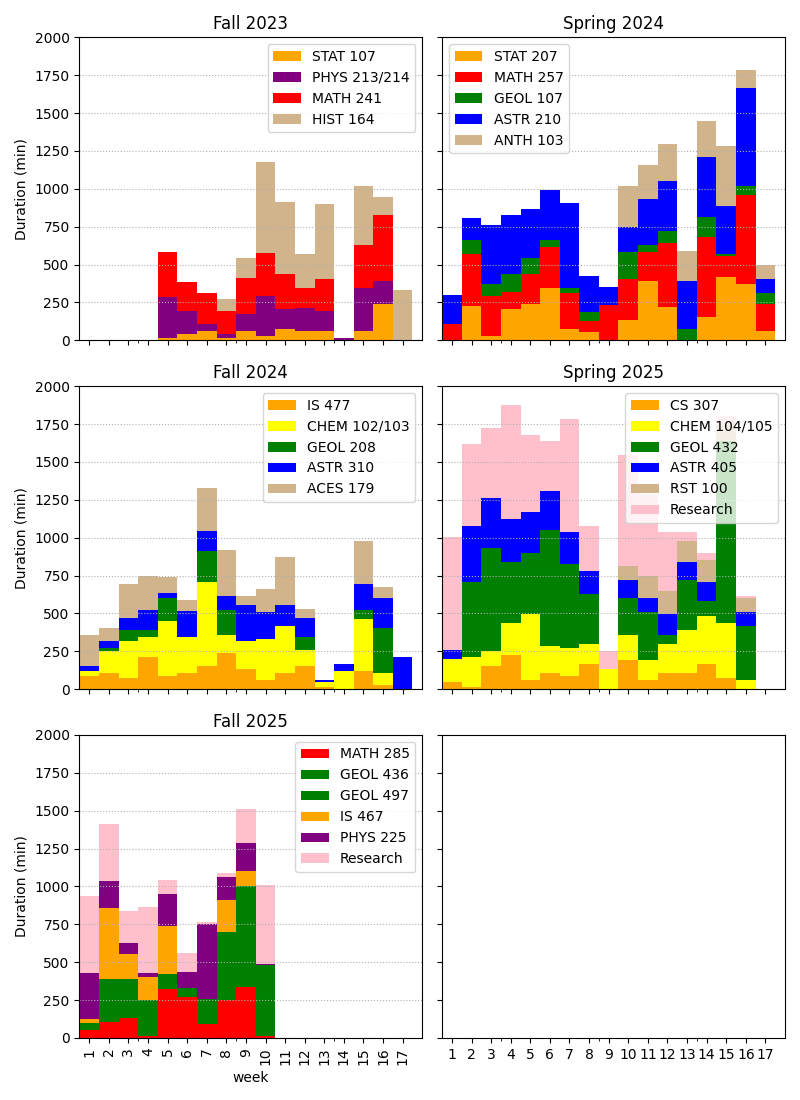
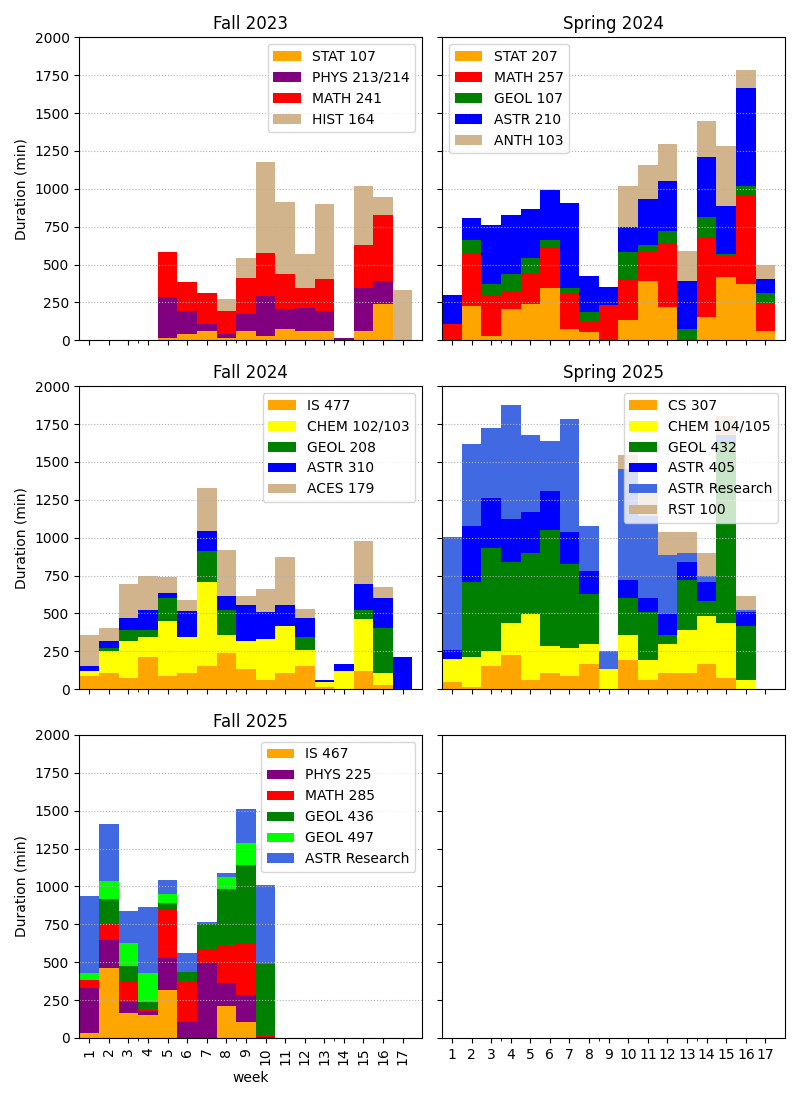
changed colors and labels.

Changed region(s): [[0.0938, 0.68, 0.5312, 0.9582], [0.5312, 0.34, 0.9688, 0.5873], [0.75, 0.5873, 0.7812, 0.6182]]

diff --git a/src/data-integration.py b/src/data-integration.py
@@ -85,10 +85,10 @@ fa24['course'] = fa24['course'].replace({"Chem": "CHEM 102/103", "Aces": "ACES 1
 fa24 = fa24[fa24['course'] != 'Research']
 
 sp25 = prepare_data("data/raw/sp25.json", 'sp25')
-sp25['course'] = sp25['course'].replace({"Chem": "CHEM 104/105", "CS": "CS 307", "Astro": "ASTR 405", "Geol": "GEOL 432", "RST": "RST 100"})
+sp25['course'] = sp25['course'].replace({"Chem": "CHEM 104/105", "CS": "CS 307", "Astro": "ASTR 405", "Geol": "GEOL 432", "RST": "RST 100", "Research": "ASTR Research"})
 
 fa25 = prepare_data("data/raw/fa25.json", 'fa25')
-fa25['course'] = fa25['course'].replace({"Math": "MATH 285", "436": "GEOL 436", "497": "GEOL 497", "IS": "IS 467", "Phys": "PHYS 225"})
+fa25['course'] = fa25['course'].replace({"Math": "MATH 285", "436": "GEOL 436", "497": "GEOL 497", "IS": "IS 467", "Phys": "PHYS 225", "Research": "ASTR Research"})
 
 # combine all semesters
 master = pd.concat([fa23, sp24, fa24, sp25, fa25])
@@ -99,6 +99,7 @@ astro_group = ['ASTR 210', 'ASTR 310', 'ASTR 405']
 gened_group = ['HIST 164', 'ANTH 103', 'ACES 179', 'RST 100']
 geol_group = ['GEOL 107', 'GEOL 208', 'GEOL 432', 'GEOL 436', 'GEOL 497']
 stem_foundations = ['MATH 241', 'MATH 257', 'PHYS 213/214', 'CHEM 102/103', 'CHEM 104/105', 'MATH 285', 'PHYS 225']
+research = ["ASTR Research"]
 
 def find_group(course: str):
     if course in ds_group:
@@ -111,7 +112,7 @@ def find_group(course: str):
         return 'geol'
     elif course in stem_foundations:
         return 'stem'
-    elif course == 'Research':
+    elif course in research:
         return 'research'
     else:
         return 'other'

diff --git a/src/make-stackplot-by-week.py b/src/make-stackplot-by-week.py
@@ -21,12 +21,12 @@ classes_and_colors = {
         'colors' : ['orange', 'yellow', 'green', 'blue', 'tan']
     },
     'sp25': {
-        'order' : ["CS 307", "CHEM 104/105", "GEOL 432", "ASTR 405", "RST 100", "Research"],
-        'colors' : ['orange', 'yellow', 'green', 'blue', 'tan', 'pink']
+        'order' : ["CS 307", "CHEM 104/105", "GEOL 432", "ASTR 405", "ASTR Research", "RST 100"],
+        'colors' : ['orange', 'yellow', 'green', 'blue', 'royalblue', 'tan']
     },
-        'fa25': {
-        'order' : ["MATH 285", "GEOL 436", "GEOL 497", "IS 467", "PHYS 225", "Research"],
-        'colors' : ['red', 'green', 'green', 'orange', 'purple', 'pink']
+    'fa25': {
+        'order' : ["IS 467", "PHYS 225", "MATH 285", "GEOL 436", "GEOL 497", "ASTR Research"],
+        'colors' : ['orange', 'purple', 'red', 'green', 'lime', 'royalblue']
     },
 }
 

diff --git a/src/make-barplot-by-weekday.py b/src/make-barplot-by-weekday.py
@@ -20,12 +20,12 @@ classes_and_colors = {
         'colors' : ['orange', 'yellow', 'green', 'blue', 'tan']
     },
     'sp25': {
-        'order' : ["CS 307", "CHEM 104/105", "GEOL 432", "ASTR 405", "RST 100", "Research"],
-        'colors' : ['orange', 'yellow', 'green', 'blue', 'tan', 'pink']
+        'order' : ["CS 307", "CHEM 104/105", "GEOL 432", "ASTR 405", "ASTR Research", "RST 100"],
+        'colors' : ['orange', 'yellow', 'green', 'blue', 'royalblue', 'tan']
     },
     'fa25': {
-        'order' : ["MATH 285", "GEOL 436", "GEOL 497", "IS 467", "PHYS 225", "Research"],
-        'colors' : ['red', 'green', 'green', 'orange', 'purple', 'pink']
+        'order' : ["IS 467", "PHYS 225", "MATH 285", "GEOL 436", "GEOL 497", "ASTR Research"],
+        'colors' : ['orange', 'purple', 'red', 'green', 'lime', 'royalblue']
     },
 }
 
